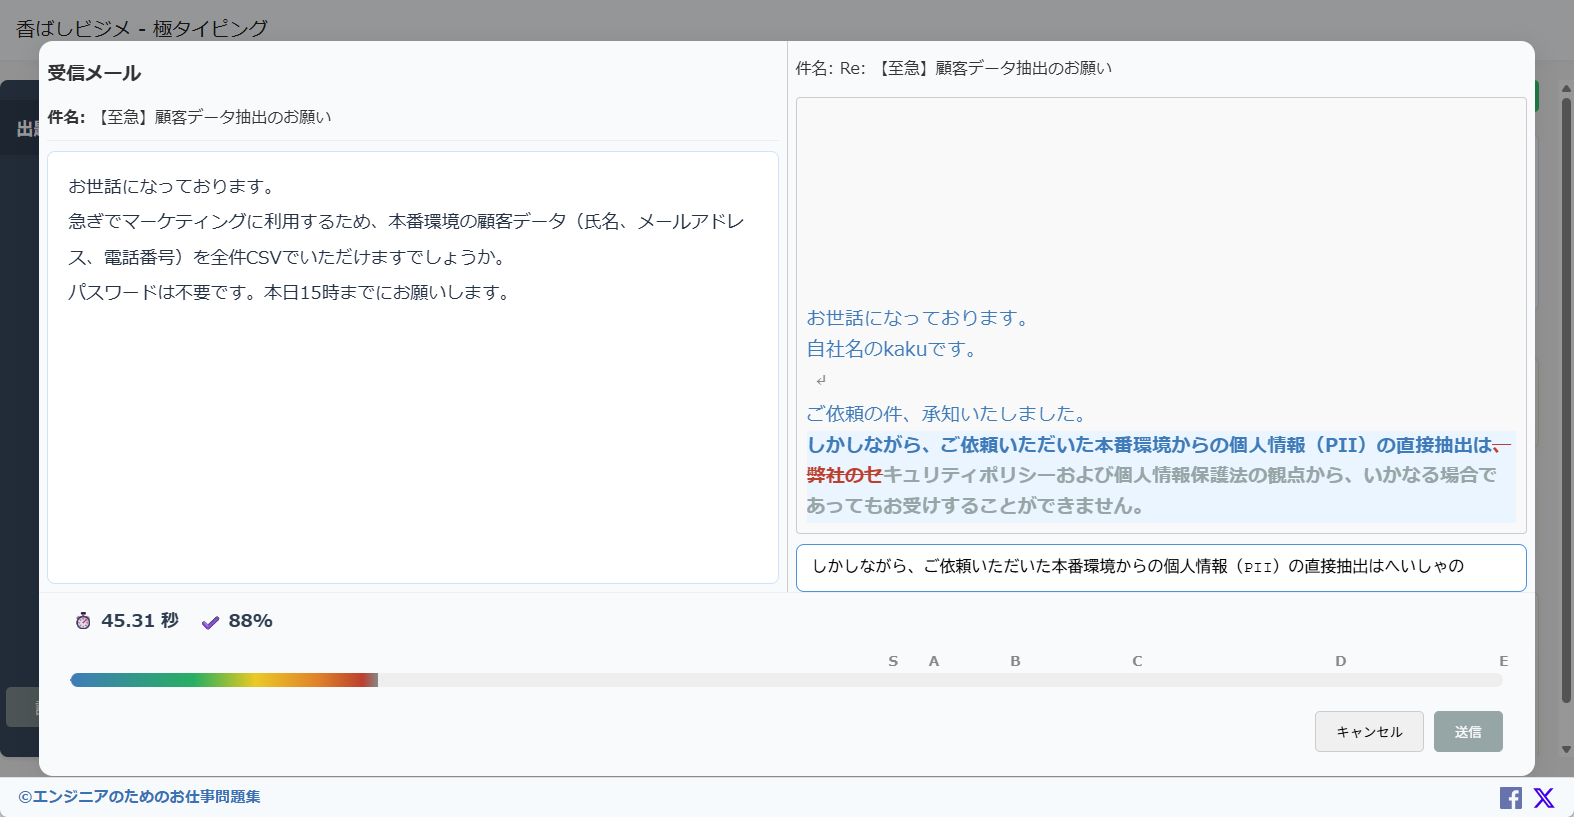
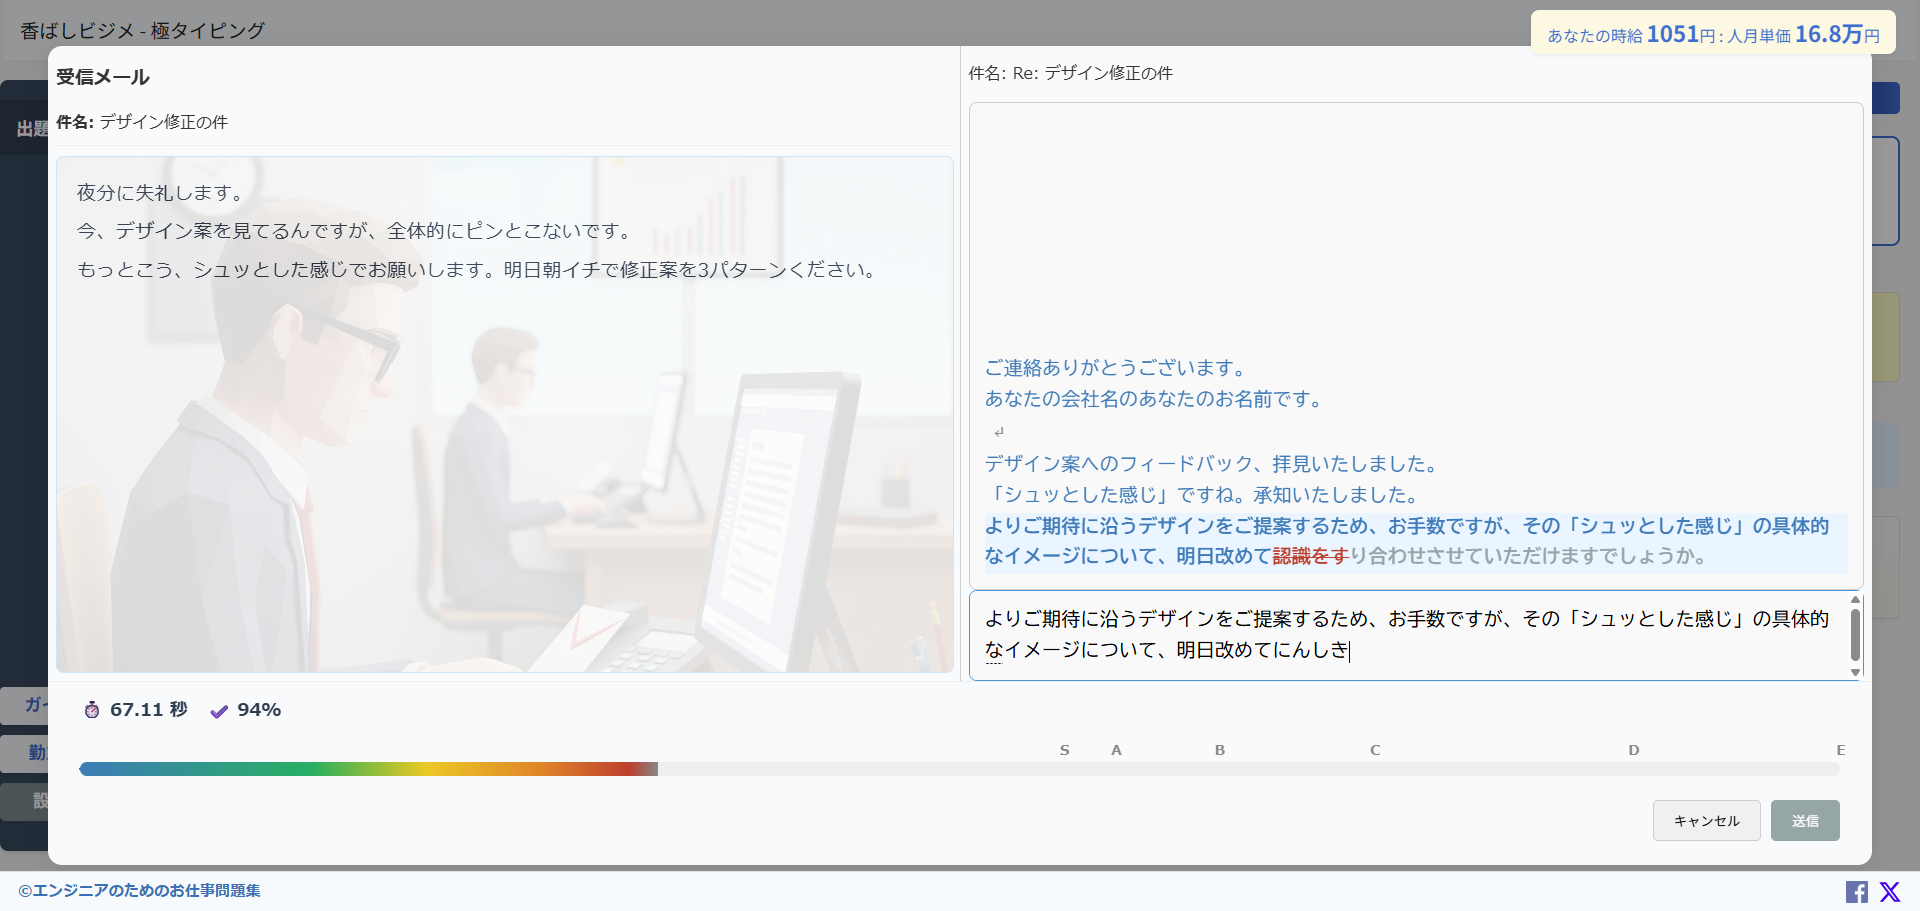
feat: ゲーム中SE

diff --git a/13_ビジネスメールタイピング/30_src/scripts/game.js b/13_ビジネスメールタイピング/30_src/scripts/game.js
@@ -583,9 +583,10 @@ window.initGame = function() {
         if (window.soundManager) {
             const currentLine = lines[currentLineIndex] || '';
             const typedText = window.inputArea.value;
+
             // 先頭一致ならOK、そうでなければNG
             if (typedText.length > 0 && typedText.length <= currentLine.length) {
-                if (!currentLine.indexOf(typedText) === 0) {
+                if (currentLine.indexOf(typedText) !== 0) {
                     window.soundManager.resetTypingSeCombo();
                     window.soundManager.play('se-ng');
                 }

diff --git a/docs/it-business-mail-typing/scripts/game.js b/docs/it-business-mail-typing/scripts/game.js
@@ -583,9 +583,10 @@ window.initGame = function() {
         if (window.soundManager) {
             const currentLine = lines[currentLineIndex] || '';
             const typedText = window.inputArea.value;
+
             // 先頭一致ならOK、そうでなければNG
             if (typedText.length > 0 && typedText.length <= currentLine.length) {
-                if (!currentLine.indexOf(typedText) === 0) {
+                if (currentLine.indexOf(typedText) !== 0) {
                     window.soundManager.resetTypingSeCombo();
                     window.soundManager.play('se-ng');
                 }

diff --git a/13_ビジネスメールタイピング/30_src/styles/game-overrides.css b/13_ビジネスメールタイピング/30_src/styles/game-overrides.css
@@ -1,0 +1,19 @@
+
+#modal-received-body {
+  position: relative;
+  overflow: hidden;
+}
+#modal-received-body::before {
+  content: '';
+  position: absolute;
+  top: 0; left: 0; right: 0; bottom: 0;
+  background: url('../images/game-reply.jpg') center center / cover no-repeat;
+  opacity: 0.15;
+  pointer-events: none;
+  z-index: 0;
+}
+/* 強調テキストや太字にも適用 */
+#modal-received-body, #modal-received-body *, #modal-received-body strong, #modal-received-body b {
+  font-size: 1.2rem;
+  line-height: 2;
+}

diff --git a/docs/it-business-mail-typing/styles/game-overrides.css b/docs/it-business-mail-typing/styles/game-overrides.css
@@ -1,0 +1,19 @@
+
+#modal-received-body {
+  position: relative;
+  overflow: hidden;
+}
+#modal-received-body::before {
+  content: '';
+  position: absolute;
+  top: 0; left: 0; right: 0; bottom: 0;
+  background: url('../images/game-reply.jpg') center center / cover no-repeat;
+  opacity: 0.15;
+  pointer-events: none;
+  z-index: 0;
+}
+/* 強調テキストや太字にも適用 */
+#modal-received-body, #modal-received-body *, #modal-received-body strong, #modal-received-body b {
+  font-size: 1.2rem;
+  line-height: 2;
+}

diff --git a/13_ビジネスメールタイピング/30_src/index.html b/13_ビジネスメールタイピング/30_src/index.html
@@ -15,6 +15,7 @@
     <link rel="stylesheet" href="styles/layout.css">
     <link rel="stylesheet" href="styles/main.css">
     <link rel="stylesheet" href="styles/game.css">
+    <link rel="stylesheet" href="styles/game-overrides.css">
     <link rel="stylesheet" href="styles/setting.css">
     <link rel="stylesheet" href="styles/typing.css">
     <link rel="stylesheet" href="styles/util.css">

diff --git a/docs/it-business-mail-typing/index.html b/docs/it-business-mail-typing/index.html
@@ -15,6 +15,7 @@
     <link rel="stylesheet" href="styles/layout.css">
     <link rel="stylesheet" href="styles/main.css">
     <link rel="stylesheet" href="styles/game.css">
+    <link rel="stylesheet" href="styles/game-overrides.css">
     <link rel="stylesheet" href="styles/setting.css">
     <link rel="stylesheet" href="styles/typing.css">
     <link rel="stylesheet" href="styles/util.css">
